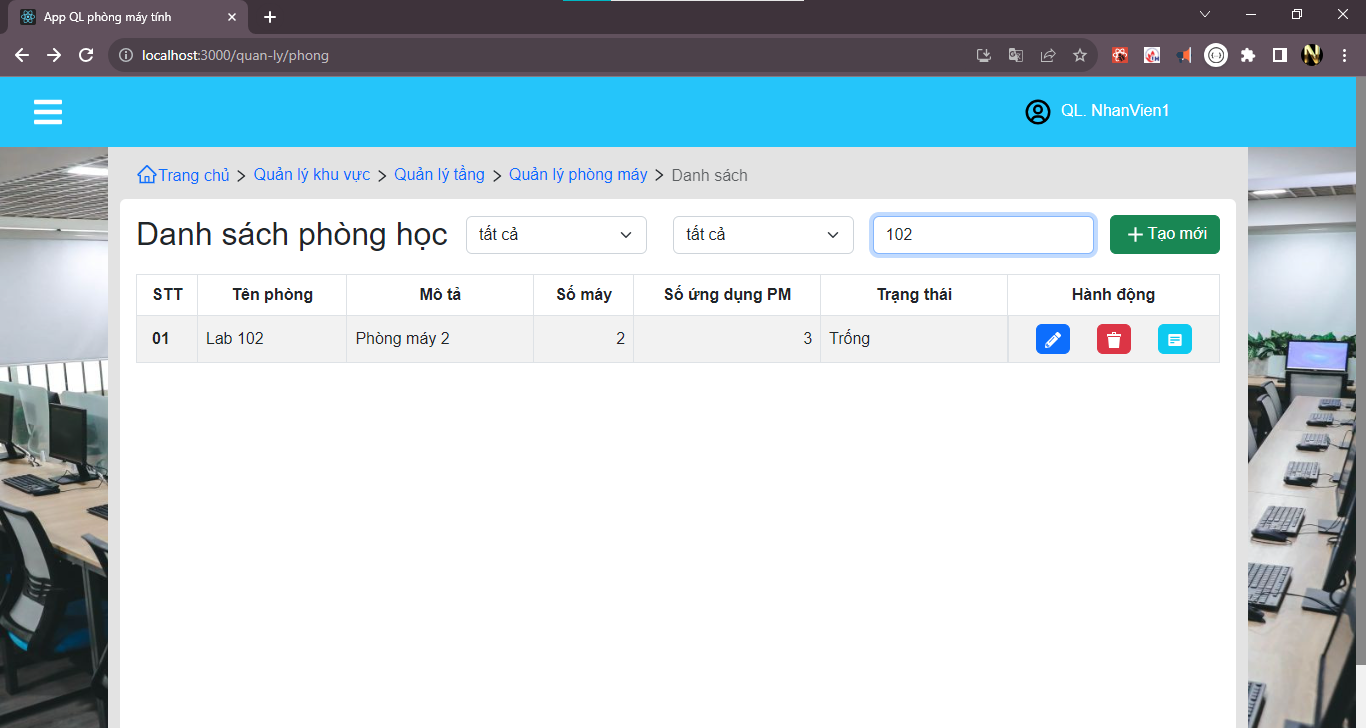
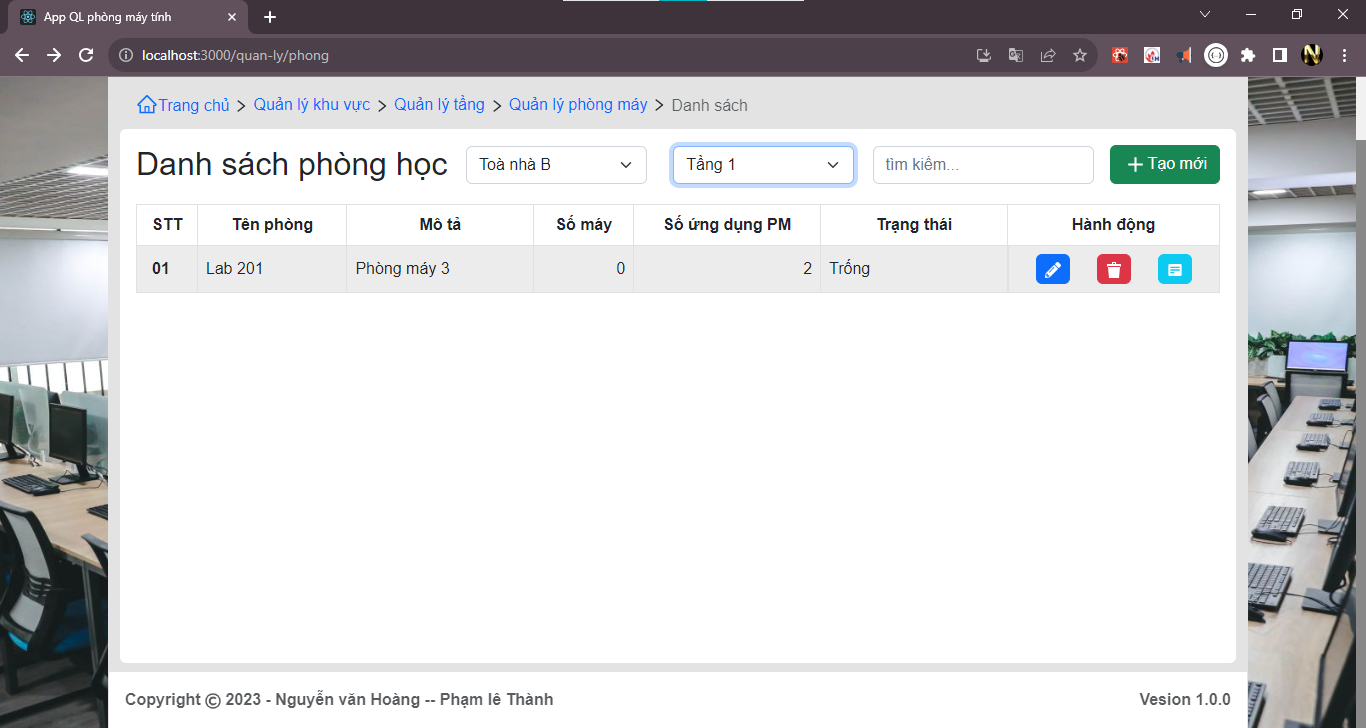
QL Phong: add sort ToaNha vs Tang

diff --git a/src/redux/reducers/phongMayReducer.jsx b/src/redux/reducers/phongMayReducer.jsx
@@ -6,9 +6,10 @@ import { http } from "../../util/config";
 const initialState = {
   arrPhongMay: [],
   arrPhongMaySearch: [],
+  arrTangbyToaNha: [],
   valueSearch: "",
-  valueSelectToaNha:'',
-  valueSelectTang:'',
+  valueSelectToaNha: "-1",
+  valueSelectTang: "-1",
 };
 
 const phongMayReducer = createSlice({
@@ -22,35 +23,127 @@ const phongMayReducer = createSlice({
     setValueSearchPhongMayAction: (state, action) => {
       state.valueSearch = action.payload;
 
-      let {arrPhongMay ,valueSearch, valueSelectToaNha, valueSelectTang  } = state
+      let { arrPhongMay, valueSearch, valueSelectToaNha, valueSelectTang } =
+        state;
 
-      state.arrPhongMaySearch = dataSearch(arrPhongMay, valueSearch, valueSelectToaNha, valueSelectTang);
+      state.arrPhongMaySearch = dataSearch(
+        arrPhongMay,
+        action.payload,
+        valueSelectToaNha,
+        valueSelectTang
+      );
     },
-    
+    setvalueSelectToaNhaPhongMayAction: (state, action) => {
+      let { valSelect, arrTang } = action.payload;
+
+      state.valueSelectToaNha = valSelect;
+      state.valueSelectTang = "-1";
+
+      // if (valSelect != -1) {
+      state.arrTangbyToaNha = arrTang.filter(
+        (item) => item.toaNha.maToaNha == valSelect
+      );
+      // }
+
+      let { arrPhongMay, valueSearch, valueSelectToaNha, valueSelectTang } =
+        state;
+
+      state.arrPhongMaySearch = dataSearch(
+        arrPhongMay,
+        valueSearch,
+        valSelect,
+        "-1"
+      );
+    },
+    setvalueSelectTangPhongMayAction: (state, action) => {
+      let { valSelect } = action.payload;
+      state.valueSelectTang = valSelect;
+
+      let { arrPhongMay, valueSearch, valueSelectToaNha, valueSelectTang } =
+        state;
+
+      state.arrPhongMaySearch = dataSearch(
+        arrPhongMay,
+        valueSearch,
+        valueSelectToaNha,
+        valSelect
+      );
+    },
   },
 });
 // exp nay de sử dụng theo cách 2
-export const { 
+export const {
   setArrPhongMayAction,
   setValueSearchPhongMayAction,
- } = phongMayReducer.actions;
+  setvalueSelectToaNhaPhongMayAction,
+  setvalueSelectTangPhongMayAction,
+} = phongMayReducer.actions;
 export default phongMayReducer.reducer;
 
 /// =================================
 const dataSearch = (arrData, valSearch, valSelectTN, valSelectTG) => {
   let search = valSearch.toLowerCase();
-  let arrUpdate = arrData.filter((item) => {
-    return (
-      item.tenPhong.toLowerCase().includes(search) ||
-      item.moTa.toLowerCase().includes(search) ||
-      (item.mayTinhs.length+'').toLowerCase().includes(search) ||
-      (item.phanMems.length + '').toLowerCase().includes(search) ||
-      item.trangThai.toLowerCase().includes(search)
-    )
-  })
+  let arrUpdate = arrData;
+  if (valSelectTN != -1) {
+    console.log("toa nha != -1");
+    if (valSelectTG != -1) {
+      console.log("tang != -1");
+      arrUpdate = arrUpdate.filter((item) => {
+        return (
+          (item.tenPhong.toLowerCase().includes(search) ||
+            item.moTa.toLowerCase().includes(search) ||
+            (item.mayTinhs.length + "").toLowerCase().includes(search) ||
+            (item.phanMems.length + "").toLowerCase().includes(search) ||
+            item.trangThai.toLowerCase().includes(search)) &&
+          item.tang.maTang == valSelectTG &&
+          item.tang.toaNha.maToaNha == valSelectTN
+        );
+      });
+    } else {
+      console.log("tang == -1");
+      arrUpdate = arrUpdate.filter((item) => {
+        return (
+          (item.tenPhong.toLowerCase().includes(search) ||
+            item.moTa.toLowerCase().includes(search) ||
+            (item.mayTinhs.length + "").toLowerCase().includes(search) ||
+            (item.phanMems.length + "").toLowerCase().includes(search) ||
+            item.trangThai.toLowerCase().includes(search)) &&
+          item.tang.toaNha.maToaNha == valSelectTN
+        );
+      });
+    }
+  } else {
+    console.log("toa nha = -1");
 
+    if (valSelectTG != -1) {
+      console.log("tang != -1");
+      arrUpdate = arrData.filter((item) => {
+        return (
+          (item.tenPhong.toLowerCase().includes(search) ||
+            item.moTa.toLowerCase().includes(search) ||
+            (item.mayTinhs.length + "").toLowerCase().includes(search) ||
+            (item.phanMems.length + "").toLowerCase().includes(search) ||
+            item.trangThai.toLowerCase().includes(search)) &&
+          item.tang.maTang == valSelectTG
+        );
+      });
+    } else {
+      console.log("tang == -1");
+      arrUpdate = arrUpdate.filter((item) => {
+        return (
+          item.tenPhong.toLowerCase().includes(search) ||
+          item.moTa.toLowerCase().includes(search) ||
+          (item.mayTinhs.length + "").toLowerCase().includes(search) ||
+          (item.phanMems.length + "").toLowerCase().includes(search) ||
+          item.trangThai.toLowerCase().includes(search)
+        );
+      });
+    }
+  }
+
+  console.log(arrUpdate);
   return [...arrUpdate];
-}
+};
 
 // CAll APi++++++++++++++++++++++++++++++++++++++
 

diff --git a/src/pages/PageQuanLy/PageQLPhongMay.jsx b/src/pages/PageQuanLy/PageQLPhongMay.jsx
@@ -14,29 +14,82 @@ import {
   getAllPhongMayApi,
   getAllPhongMayApi2,
   setValueSearchPhongMayAction,
+  setvalueSelectTangPhongMayAction,
+  setvalueSelectToaNhaPhongMayAction,
 } from "../../redux/reducers/phongMayReducer";
-
-
+import { getAllToaNhaApi } from "../../redux/reducers/toaNhaReducer";
+import { getAllTangApi } from "../../redux/reducers/tangReducer";
 
 function PageQLPhongMay() {
   //
   const dispatch = useDispatch();
   //
-  let {arrPhongMay, arrPhongMaySearch } = useSelector((state) => state.phongMayReducer);
+  let { arrPhongMay, arrPhongMaySearch, valueSelectToaNha,arrTangbyToaNha } = useSelector(
+    (state) => state.phongMayReducer
+  );
+  let { arrTang } = useSelector((state) => state.tangReducer);
+  let { arrToaNha } = useSelector((state) => state.toaNhaReducer);
   //
 
   useEffect(() => {
     if (arrPhongMay.length === 0) {
       dispatch(getAllPhongMayApi);
     }
+    if (arrToaNha.length === 0) {
+      dispatch(getAllToaNhaApi);
+    }
+    if (arrTang.length === 0) {
+      dispatch(getAllTangApi);
+    }
   }, []);
 
   //search
   const handleSearchChange = (event) => {
-    
-    dispatch(setValueSearchPhongMayAction(event.target.value))
+    dispatch(setValueSearchPhongMayAction(event.target.value));
   };
-  
+  //
+  const handleChangeSelectToaNha = e => {
+    let valSelect = e.target.value
+    dispatch(setvalueSelectToaNhaPhongMayAction({valSelect, arrTang}))
+  }
+  //
+  const handleChangeSelectTang = e => {
+    let valSelect = e.target.value
+    dispatch(setvalueSelectTangPhongMayAction({valSelect}))
+  }
+
+  // RENDER
+  const renderToaNha = () => {
+    return arrToaNha?.map((item, index) => {
+      return (
+        <option key={index} value={item.maToaNha}>
+          {item.tenToaNha}
+        </option>
+      );
+    })
+  };
+  //
+  const renderTang = () => {
+    if(valueSelectToaNha == -1) {
+      return arrTang?.map((item, index) => {
+        return (
+          <option key={index} value={item.maTang}>
+            {item.tenTang}
+          </option>
+        );
+      })
+    }
+    else{
+      return arrTangbyToaNha?.map((item, index) => {
+        return (
+          <option key={index} value={item.maTang}>
+            {item.tenTang}
+          </option>
+        );
+      })
+    }
+    
+  };
   //
   const renderDataPhongMay = () => {
     return arrPhongMaySearch.map((item, index) => {
@@ -121,21 +174,23 @@ function PageQLPhongMay() {
             >
               <h2 style={{ margin: "0" }}>Danh sách phòng học</h2>
 
-              
+              {/* select ToaNha */}
               <div className="col-2 m-2">
-                <select className="form-select" >
+                <select className="form-select" onChange={handleChangeSelectToaNha}>
                   <option value="-1" selected>
                     tất cả
                   </option>
-                  
+                  {renderToaNha()}
                 </select>
               </div>
+
+              {/* select Tang */}
               <div className="col-2 m-2">
-                <select className="form-select" >
+                <select className="form-select" onChange={handleChangeSelectTang}>
                   <option value="-1" selected>
                     tất cả
                   </option>
-                  
+                  {renderTang()}
                 </select>
               </div>
 
